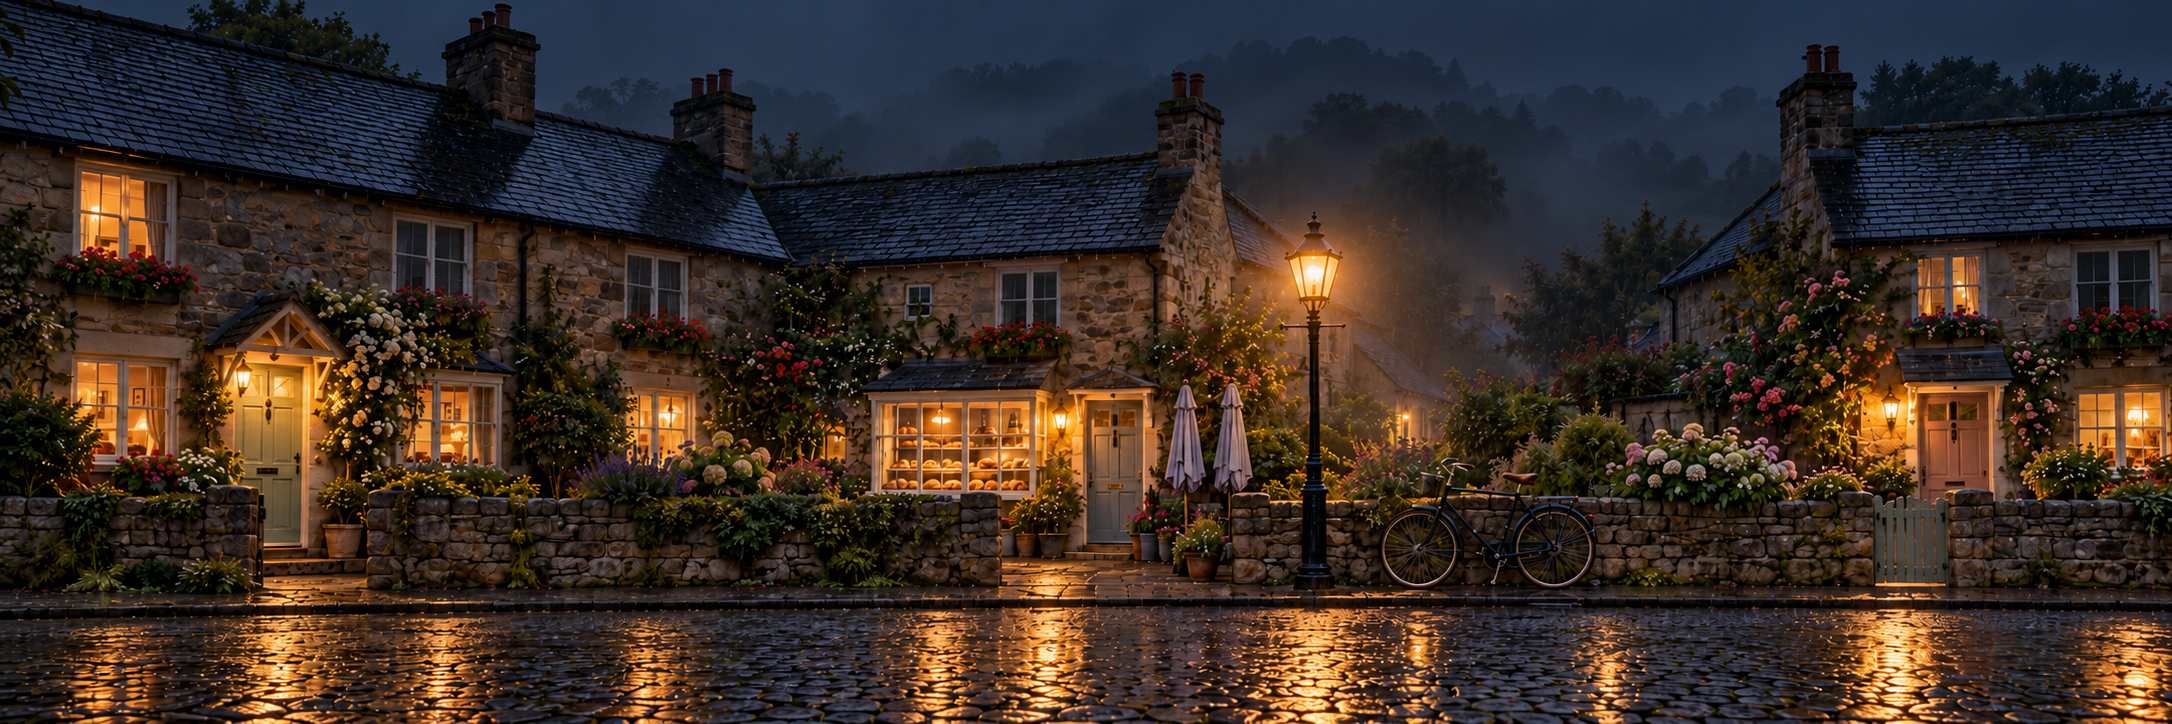
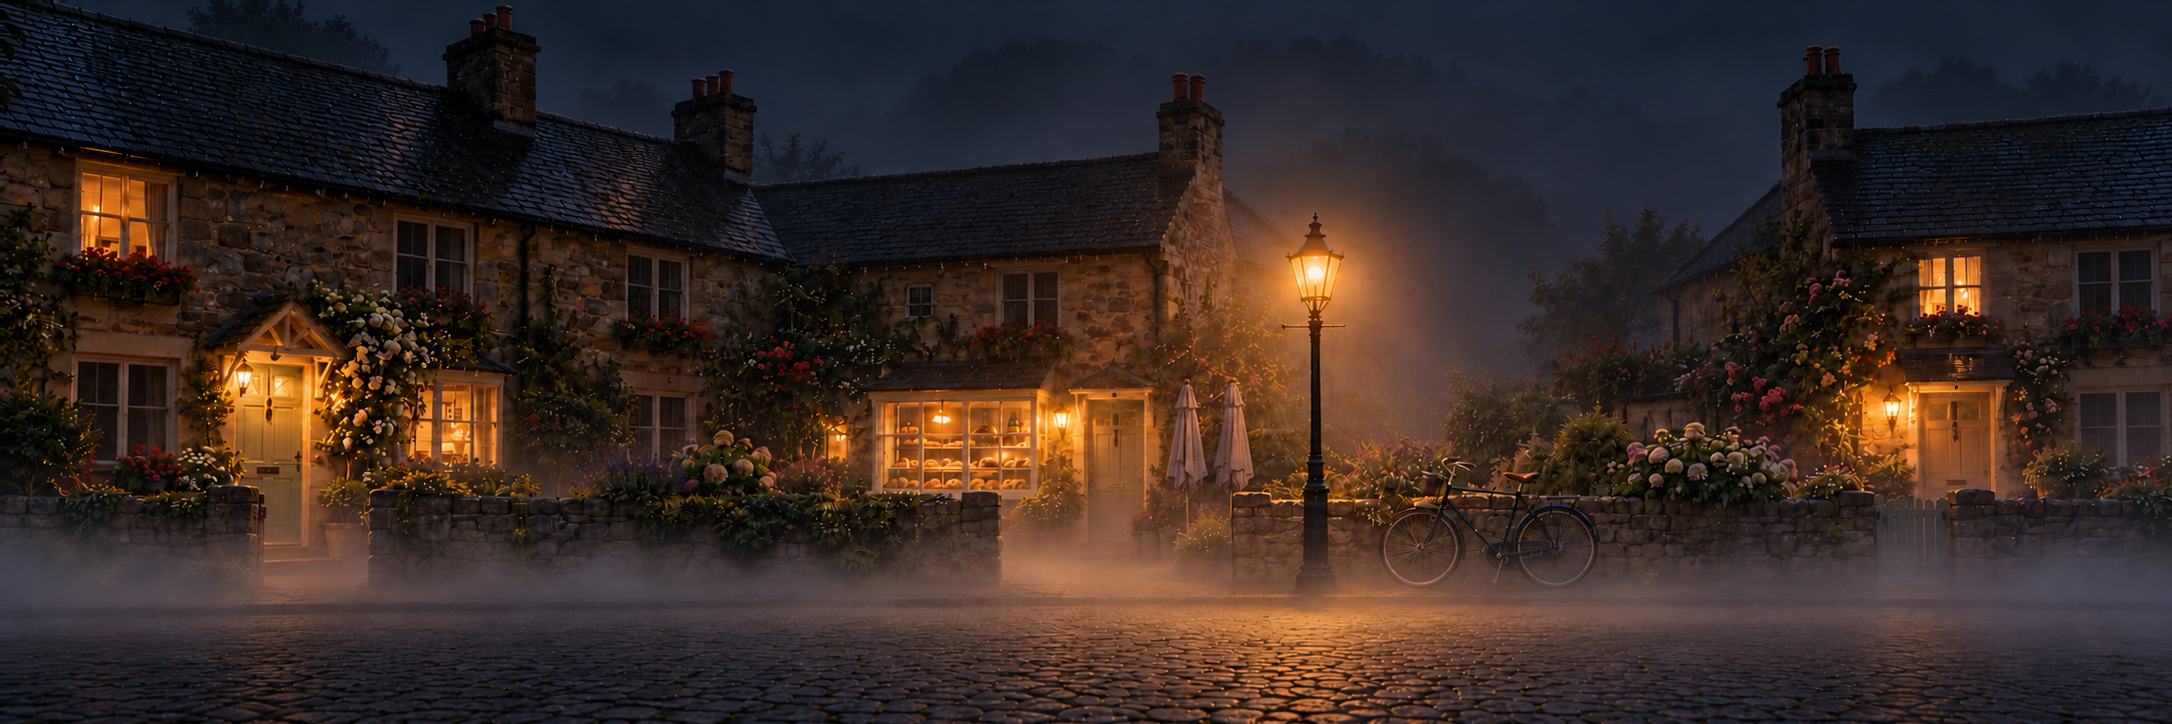
Art: ChatGPT's misty lane redo for the "change" weather (16 and 21)
The first misty lane read as rain (wet shining cobbles, fog only on
the hills). The new day view has matte cobbles, mist along the lane
and the lamp off; the night view has low fog, matte stone and the lamp
lit. Both 2172 x 724. Checked against the other lanes: the day view
lines up exactly, the night view is 1 px off horizontally, too small
to see on the lane plate. The pack's notes, prompts and before/after
previews are in mist-fix/ (its gallery page left out).

diff --git a/art-inbox/sweet-spells/mist-fix/README.md b/art-inbox/sweet-spells/mist-fix/README.md
@@ -1,0 +1,18 @@
+# Sweet Spells — mist correction
+
+Two replacement PNGs, each 2172×724:
+
+- 16-lane-change.png: redone from14 rainy master. Matte dry/barely damp cobbles, lane-level mist receding into hills, pale even morning, streetlamp off, no rain/puddles/reflected golden streaks.
+- 21-lane-night-change.png: redone from19 night-rain master because the previous night mist had the same wet-road problem. Low sea fog, matte stone, lit streetlamp with a soft halo, no rain/puddles/reflected streaks. An invented distant light was removed.
+
+The built-in image tool made all weather/lighting changes. Technical normalization returned both to 2172×724. Night received a 2-pixel global registration, with edge extension confined to the new outer border. No structures were locally warped or pasted from rainy images.
+
+Seven fixed-feature regions were compared against each respective master. Best full-resolution offsets were 0–1 pixel. This is a sampled registration check, not proof of mathematical pixel identity across the whole generated image. Crossfades were also visually inspected.
+
+The correction ZIP places the two replacement images at its root. Supporting notes, prompts and previews are inside mist-fix/ so extracting it does not overwrite the full pack's notes.md or prompts.json.
+
+Only these two target PNGs are intended for replacement. Original target files were backed up in this chat's working directory before publication. Masters and all other assets are verified separately as unchanged.
+
+## Installation status
+
+Write access to the C:/dev project was not granted, so its files remain unchanged. Copy the two PNGs at the ZIP root into the requested sweet-spells folder to install these corrections.
